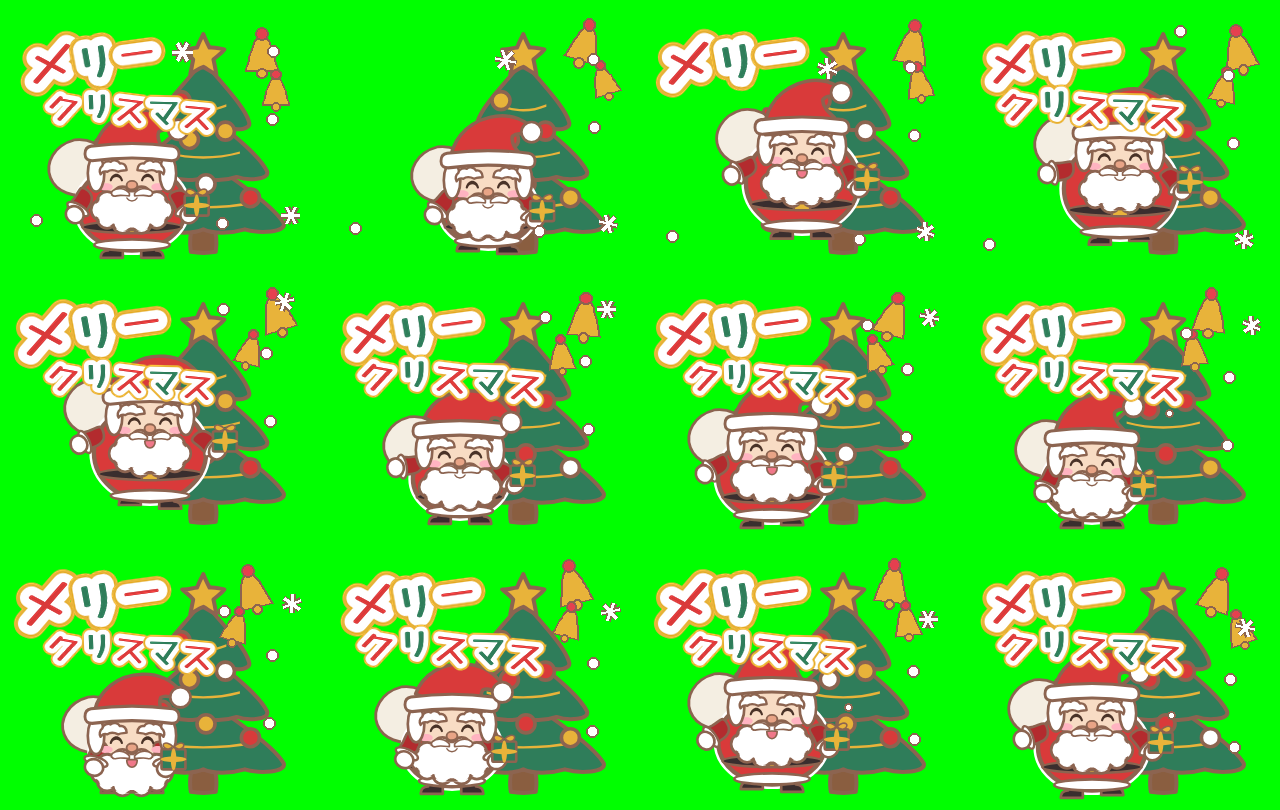
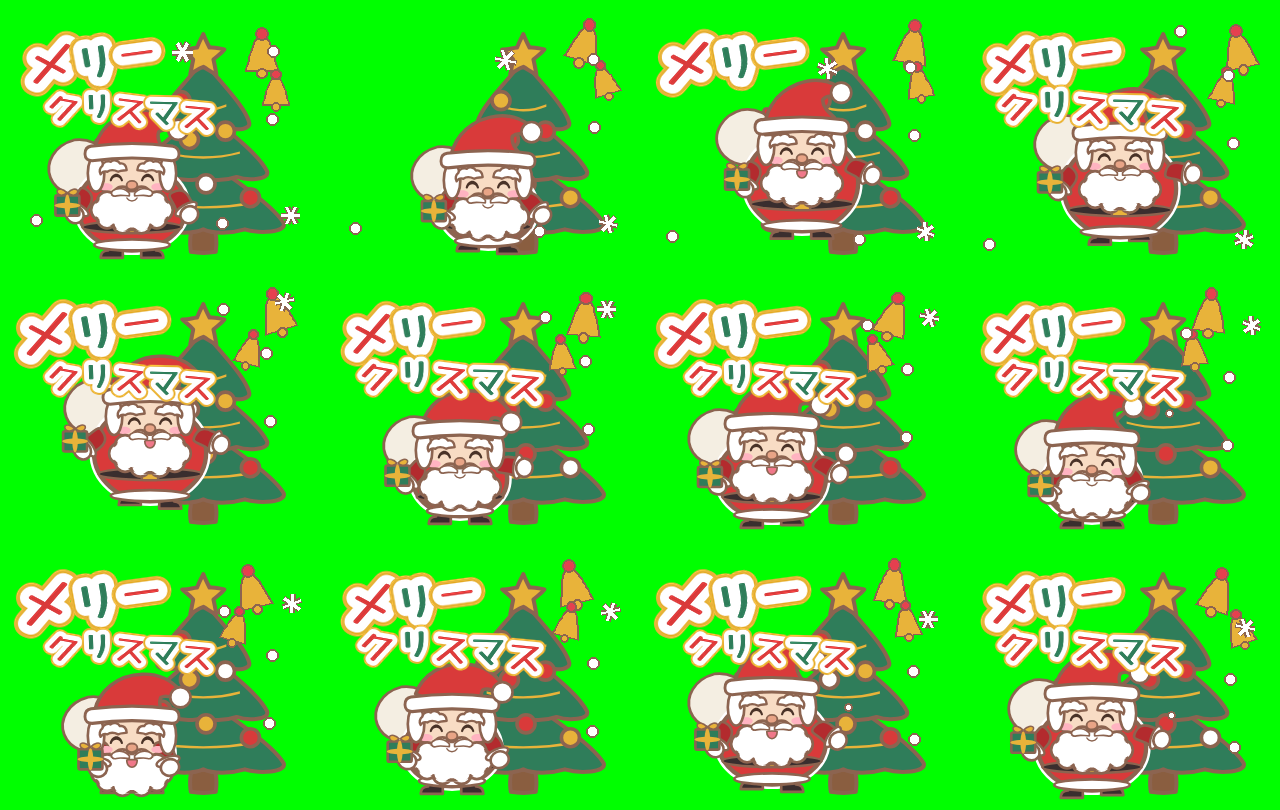
set04: サンタのプレゼントを右手に持ちかえ、手をふるのは左手に
Claude-Session: https://claude.ai/code/session_01RfomAZL54wRevPjVr3cHPk

diff --git a/tools/xmas.py b/tools/xmas.py
@@ -294,13 +294,14 @@ def santa(c):
     arm_part(c, "P6", bx + 12, by + bh * 0.3, 30 + al, 34, 22, RED_D, WHITE, 20, cuff=WHITE)
     arm_part(c, "P7", bx + bw - 12, by + bh * 0.3, -30 - ar, 34, 22, RED_D, WHITE, 20, cuff=WHITE)
     if p.get("gift", True):  # 右手でプレゼントの箱を持つ(手について行く)
-        h_ = c["P7_hand"]
+        h_ = c["P6_hand"]  # サンタの右手(見て左)に持つ
         hx_, hy_ = h_["left"] + h_["w"] / 2, h_["top"] + h_["h"] / 2
-        put(c, "P7zz_box", GREEN, 2.4, 28, 24, hx_ - 6, hy_ - 22, "M3 1 L25 1 C27 1 27 3 27 3 L27 21 C27 23 25 23 25 23 L3 23 C1 23 1 21 1 21 L1 3 C1 1 3 1 3 1 Z")
-        put(c, "P7zz_rib1", GOLD, 0, 6, 24, hx_ + 5, hy_ - 22, soft.ellipse_d(6, 24))
-        put(c, "P7zz_rib2", GOLD, 0, 28, 6, hx_ - 6, hy_ - 13, soft.ellipse_d(28, 6))
-        put(c, "P7zz_bowL", GOLD, 2, 12, 9, hx_ - 4, hy_ - 29, winter.LOOP_L, vw=18, vh=14)
-        put(c, "P7zz_bowR", GOLD, 2, 12, 9, hx_ + 8, hy_ - 29, winter.LOOP_R, vw=18, vh=14)
+        bx_ = hx_ - 22  # 箱は手の外側(見て左)へ
+        put(c, "P7zz_box", GREEN, 2.4, 28, 24, bx_, hy_ - 22, "M3 1 L25 1 C27 1 27 3 27 3 L27 21 C27 23 25 23 25 23 L3 23 C1 23 1 21 1 21 L1 3 C1 1 3 1 3 1 Z")
+        put(c, "P7zz_rib1", GOLD, 0, 6, 24, bx_ + 11, hy_ - 22, soft.ellipse_d(6, 24))
+        put(c, "P7zz_rib2", GOLD, 0, 28, 6, bx_, hy_ - 13, soft.ellipse_d(28, 6))
+        put(c, "P7zz_bowL", GOLD, 2, 12, 9, bx_ + 2, hy_ - 29, winter.LOOP_L, vw=18, vh=14)
+        put(c, "P7zz_bowR", GOLD, 2, 12, 9, bx_ + 14, hy_ - 29, winter.LOOP_R, vw=18, vh=14)
     # 顔
     put(c, "FACE1", SKIN, 3.4, 80, 72, 120 + fx, 140 + fy, soft.ellipse_d(80, 72))
     # ひげ: ほっぺの横から胸まで覆う大きなもこもこ。横の白い髪(帽子のふちの下)とつながる
@@ -568,10 +569,10 @@ MOVE01_OLD = [dict(), dict(al=-6, ar=-6, hat=-6), dict(al=30, ar=26, hat=-14, hl
           dict(al=-14, ar=-14, hat=-12), dict(al=-18, ar=-18, hat=8), dict(al=-12, ar=-10, hat=14),
           dict(al=10, ar=-4, hat=-6, hl=3), dict(al=-4, ar=12, hat=4, hr=3)]
 # 左手は大きくふり上げて手をふる、右手は少し遅れて小さく(左右で別の動き)
-MOVE01 = [dict(), dict(al=10, ar=-8, hat=-6, hl=3), dict(al=34, ar=-4, hat=-14), dict(al=50, ar=8, hat=-4, hr=4),
-          dict(al=36, ar=22, hat=12, hl=4), dict(al=52, ar=12, hat=18), dict(al=30, ar=-6, hat=6, hr=3),
-          dict(al=-4, ar=-14, hat=-10), dict(al=-12, ar=-20, hat=6), dict(al=-6, ar=-12, hat=14),
-          dict(al=24, ar=0, hat=-4, hl=3), dict(al=40, ar=10, hat=4, hr=3)]
+MOVE01 = [dict(), dict(ar=10, al=-8, hat=-6, hl=3), dict(ar=34, al=-4, hat=-14), dict(ar=50, al=8, hat=-4, hr=4),
+          dict(ar=36, al=22, hat=12, hl=4), dict(ar=52, al=12, hat=18), dict(ar=30, al=-6, hat=6, hr=3),
+          dict(ar=-4, al=-14, hat=-10), dict(ar=-12, al=-20, hat=6), dict(ar=-6, al=-12, hat=14),
+          dict(ar=24, al=0, hat=-4, hl=3), dict(ar=40, al=10, hat=4, hr=3)]
 # 05 トナカイ「おつかれ/さまです」: 左に置いて、文字は右に。前足を交互に大きく上げて歩く。鼻がぴかっ
 MOVE05_OLD = [dict(), dict(fl=26, lfl=8, el=-14, er=8, bell=3, glow=True), dict(fr=26, lfr=8, el=8, er=-14, bell=-3),
           dict(fl=30, lfl=10, el=-12, er=6, bell=3, glow=True), dict(fr=30, lfr=10, el=6, er=-12, bell=-3),

diff --git a/work/set04/qa.md b/work/set04/qa.md
@@ -70,3 +70,7 @@
 ## 直し(2026-11-07): おつかれさまです の読みやすさ
 
 - 小さい文字は白いフチを細く(9→5px)、字の間を広げ(1.06倍)、大きさのばらつきと段差をやめた。文字を 30/24px → 34/30px に大きくした。
+
+## 直し(2026-11-07): プレゼントを右手へ
+
+- プレゼントをサンタの右手(見て左)に持ちかえた。手をふる動きは、空いた左手(見て右)に入れかえた。
